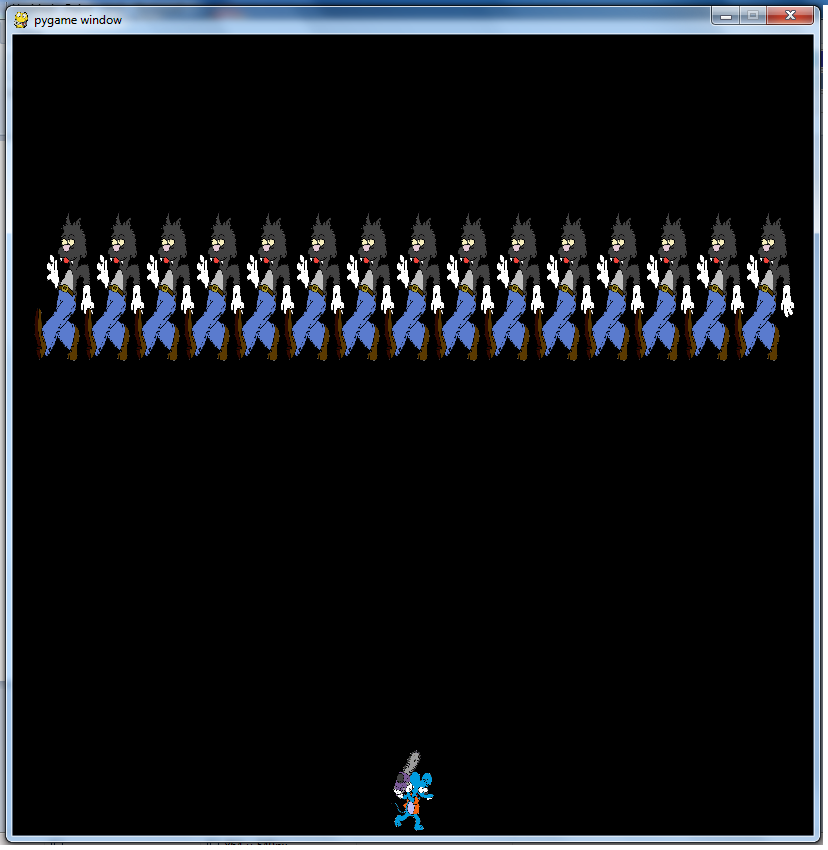
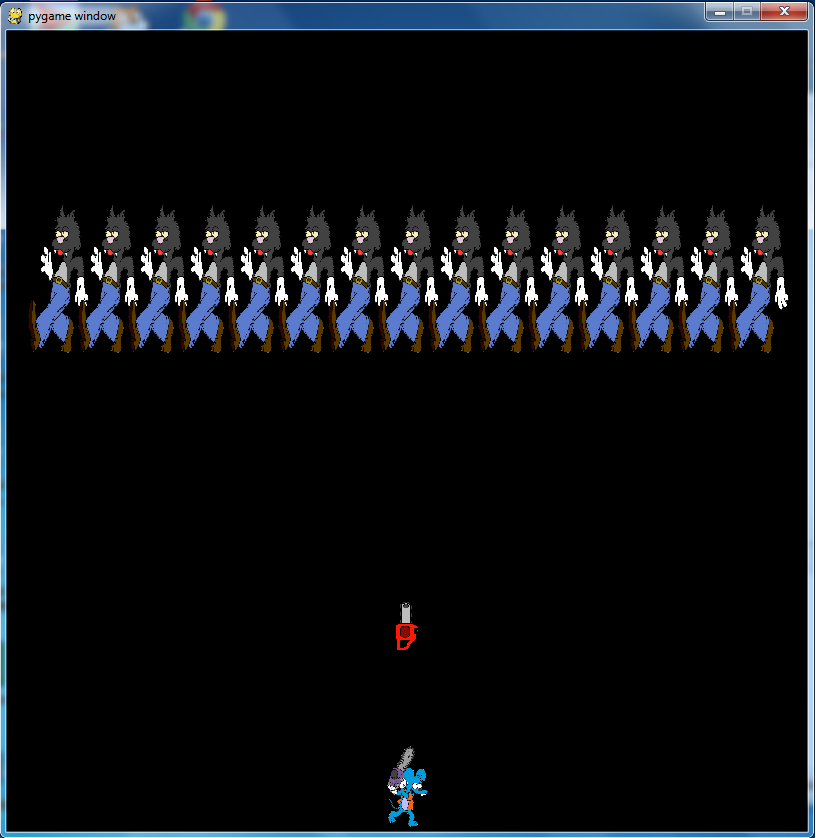
finished site

Changed region(s): [[0.0, 0.0, 1.0, 1.0], [0.4596, 0.7136, 0.5208, 0.7757]]

diff --git a/M-Bentley.github.io.html b/M-Bentley.github.io.html
@@ -4,8 +4,10 @@
 </head>
 <body>
 	<h1>An Itchy & Scracthy/Space Invaders inspired <a href='https://github.com/M-Bentley/Breakout_Arkanoid'>game.</a></h1>
-	<img src="scratchyshot1.png"/>
 	<img src="scratchyshot2.png"/>
+	<p>The player is able to fire chainsaws to prevent the cats from reaching the ground.</p>
+	<img src="scratchyshot1.png"/>
+	<p>If the enemies are able to reach the ground the game is over.</p>
 		
 	
 	<h2>self.image = pygame.image.load("H:\Itchy.png")
